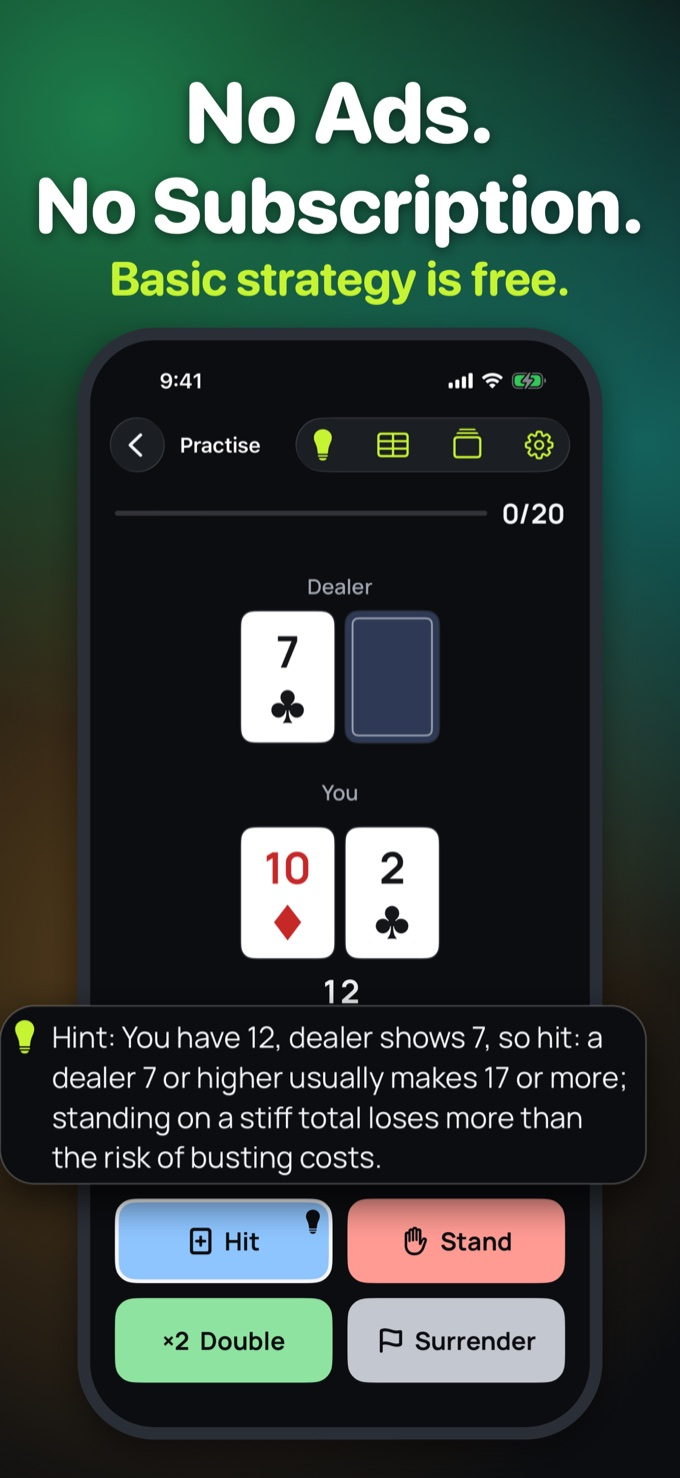
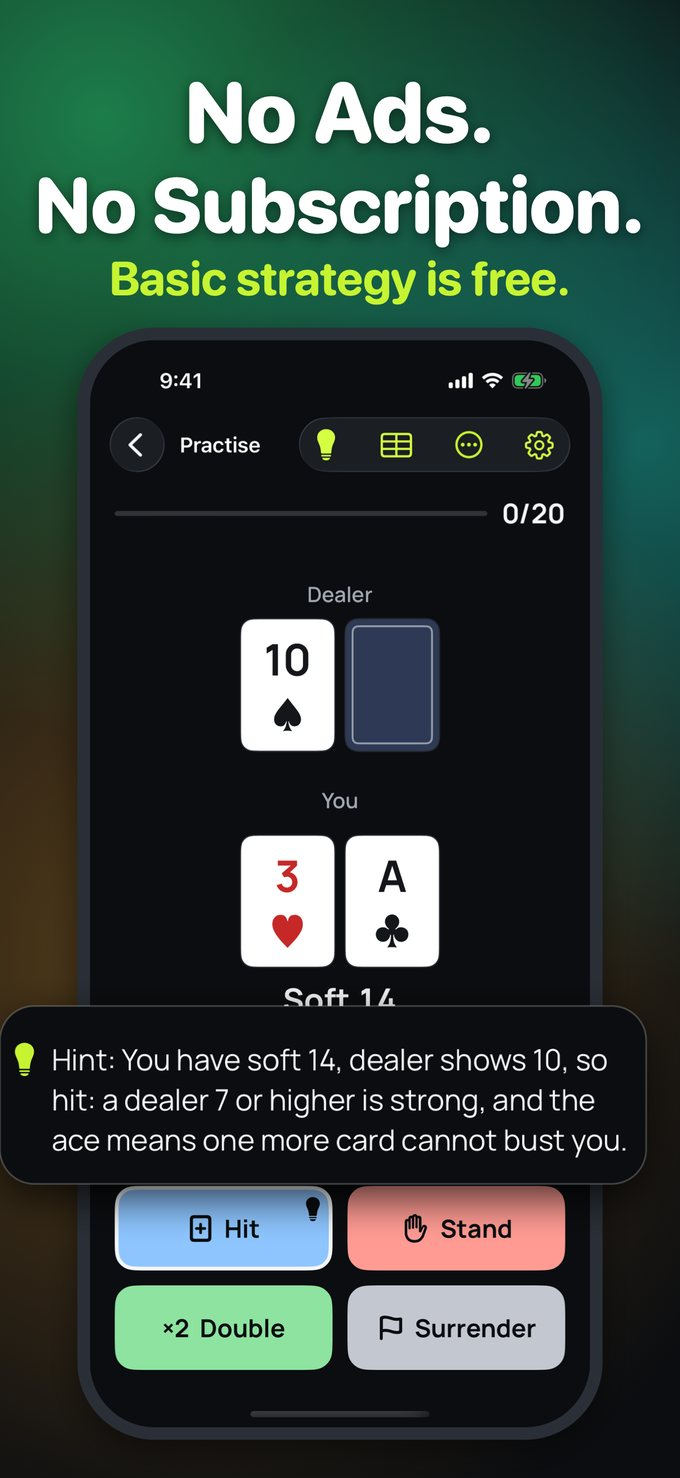
Add Euchre to the home page and an Euchre app page; refresh CardTrainer screenshots
Home page: Euchre card with three captioned screenshots, an About the app
button, intro and meta copy, jump and footer links. New euchre/index.html
modelled on the Blackjack & Video Poker Coach page, with og-euchre.jpg and
a sitemap entry. CardTrainer practice, counting and video poker images and
og-cardtrainer.jpg re-exported from the 2026-11-08 store screenshots.
AGENTS.md, README.md and docs/assets.md updated to match.

diff --git a/euchre/index.html b/euchre/index.html
@@ -1,0 +1,148 @@
+<!doctype html>
+<html lang="en">
+<head>
+  <meta charset="utf-8">
+  <meta name="viewport" content="width=device-width, initial-scale=1">
+  <meta name="theme-color" content="#10110f">
+  <meta name="description" content="Learn Euchre and play the classic four-player card game offline on iPhone and iPad, with a computer partner. No ads, no account. Coach hints with one purchase.">
+  <link rel="canonical" href="https://pangufu.ca/euchre/">
+  <link rel="icon" href="/assets/favicon.svg?v=2" type="image/svg+xml">
+  <title>Euchre: Learn and Play the Classic Card Game Offline</title>
+  <meta property="og:type" content="website">
+  <meta property="og:site_name" content="PANGUFU">
+  <meta property="og:title" content="Euchre: Learn and Play the Classic Card Game Offline">
+  <meta property="og:description" content="Learn Euchre and play the classic four-player card game offline on iPhone and iPad, with a computer partner. No ads, no account. Coach hints with one purchase.">
+  <meta property="og:url" content="https://pangufu.ca/euchre/">
+  <meta property="og:locale" content="en_US">
+  <meta property="og:image" content="https://pangufu.ca/assets/og-euchre.jpg">
+  <meta property="og:image:alt" content="Euchre app icon beside its table screen">
+  <meta name="twitter:card" content="summary_large_image">
+  <link rel="stylesheet" href="/styles.css">
+</head>
+<body class="content-page">
+  <header class="topbar" id="top">
+    <nav class="nav wrap" aria-label="Main navigation">
+      <a class="brand" href="/">PANGUFU</a>
+      <div class="nav-links">
+        <a href="/#apps">All apps</a>
+        <a class="nav-contact" href="#support">Support</a>
+      </div>
+    </nav>
+  </header>
+
+  <main>
+    <section class="page-intro wrap" aria-labelledby="page-title">
+      <p class="eyebrow">Card game · iPhone &amp; iPad</p>
+      <h1 id="page-title">Euchre</h1>
+      <p class="intro-text">Learn Euchre and play the classic four-player card game offline. You and a computer partner play against two computer opponents, at your own pace. Unlimited matches are free.</p>
+    </section>
+
+    <section class="apps-section" id="featured" aria-labelledby="apps-title">
+      <div class="wrap">
+        <div class="section-heading">
+          <div>
+            <p class="eyebrow">The app</p>
+            <h2 id="apps-title">Play a full match, offline.</h2>
+          </div>
+          <p class="section-note">No ads and no account.</p>
+        </div>
+        <article class="app-card">
+          <div class="feature-copy">
+            <div class="card-top">
+              <img class="app-icon" src="/assets/euchre-icon.png" width="64" height="64" alt="Euchre icon">
+              <div class="app-title">
+                <p class="app-kind">Card game · iPhone &amp; iPad</p>
+                <h3>Euchre</h3>
+              </div>
+            </div>
+            <p class="app-description">Play matches to 10 points with a computer partner, and learn the game as you go: dealing, trump, both bowers, following suit, bidding, going alone and scoring.</p>
+            <ul class="feature-points">
+              <li>Play with or without Stick the Dealer</li>
+              <li>Choose whether the dealer’s partner must go alone when ordering up</li>
+              <li>A rules guide, a six-step tutorial and 10 coaching scenarios</li>
+            </ul>
+            <p class="purchase-note"><strong>Free to play.</strong> Matches, the rules guide, the tutorial and the first 10 scenarios are free; one purchase adds the coach.</p>
+            <div class="card-bottom">
+              <span class="status"><span aria-hidden="true"></span>Coming soon to the App Store</span>
+              <a class="text-link" href="/euchre/privacy.html">Euchre privacy policy <span aria-hidden="true">↗</span></a>
+            </div>
+          </div>
+          <figure class="app-shot">
+            <img src="/assets/euchre-table.jpg" width="680" height="1477" alt="Captioned App Store image: Classic Euchre, Offline. No ads. No account. Above the table during a trick, with the cards that cannot follow suit marked" loading="lazy">
+          </figure>
+        </article>
+      </div>
+    </section>
+
+    <section class="training-section wrap" id="coach" aria-labelledby="coach-title">
+      <div class="section-heading">
+        <div>
+          <p class="eyebrow">Euchre Coach</p>
+          <h2 id="coach-title">See the better play.</h2>
+        </div>
+        <p class="section-note">Hints, hand reviews and every scenario, in one purchase.</p>
+      </div>
+      <div class="training-grid">
+        <article class="training-card">
+          <span class="mode-number">01</span>
+          <svg class="mode-icon" viewBox="0 0 48 48" aria-hidden="true">
+            <path d="M17 30c-3-2.6-5-6.2-5-10a12 12 0 0 1 24 0c0 3.8-2 7.4-5 10v5H17Z" />
+            <path d="M18 41h12" />
+            <path class="icon-accent" d="M24 14v8M20 18h8" />
+          </svg>
+          <p class="app-kind">Hints</p>
+          <h3>Ask at your turn</h3>
+          <p>Ask the coach for a hint when you want one. It uses only your hand and what you can see at the table, and explains the alternative too.</p>
+          <span class="mode-detail">Included with the Coach purchase</span>
+          <img class="training-shot" src="/assets/euchre-hint.jpg" width="680" height="1477" loading="lazy" alt="Captioned App Store image: Ask the Coach at Your Turn. One-time purchase. No subscription. Above a coach suggestion to lead the right bower, with an alternative">
+        </article>
+        <article class="training-card">
+          <span class="mode-number">02</span>
+          <svg class="mode-icon" viewBox="0 0 48 48" aria-hidden="true">
+            <rect x="10" y="7" width="28" height="34" rx="3" />
+            <path d="M16 17h16M16 25h16M16 33h9" />
+            <path class="icon-accent" d="m29 33 3 3 6-7" />
+          </svg>
+          <p class="app-kind">Hand review</p>
+          <h3>Learn from every hand</h3>
+          <p>Step through the decisions in a completed hand and see the coach’s advice. Practise the key decisions in the full scenario catalog.</p>
+          <span class="mode-detail">Included with the Coach purchase</span>
+          <img class="training-shot" src="/assets/euchre-review.jpg" width="680" height="1477" loading="lazy" alt="Captioned App Store image: Review Every Hand You Play. Included with the Coach purchase. Above a hand review with the coach's suggestion for a bidding decision">
+        </article>
+      </div>
+    </section>
+
+    <section class="principles" aria-labelledby="principles-title">
+      <div class="wrap principles-inner">
+        <div class="principles-heading">
+          <p class="eyebrow">Made for offline play</p>
+          <h2 id="principles-title">No account. No ads.<br>No data collected.</h2>
+        </div>
+        <div class="principles-copy">
+          <p>Play as much as you like for free. One purchase adds the coach, with no subscription.</p>
+          <p>Your settings, an active match, results and decision history stay on your device. A completed hand is shared only when you choose to export it.</p>
+        </div>
+      </div>
+    </section>
+
+    <section class="support wrap" id="support" aria-labelledby="support-title">
+      <div>
+        <p class="eyebrow">Support &amp; enquiries</p>
+        <h2 id="support-title">We’re here to help.</h2>
+        <p>For app support or general enquiries, send us a note.</p>
+      </div>
+      <a class="email" href="mailto:support@pangufu.ca">support@pangufu.ca <span aria-hidden="true">↗</span></a>
+    </section>
+  </main>
+
+  <footer>
+    <div class="foot wrap">
+      <strong>PANGUFU SOLUTION LTD.</strong>
+      <div class="footer-links">
+        <a href="/euchre/privacy.html">Euchre privacy policy</a>
+      </div>
+      <span>© 2026 PANGUFU</span>
+    </div>
+  </footer>
+</body>
+</html>

diff --git a/index.html b/index.html
@@ -4,14 +4,14 @@
   <meta charset="utf-8">
   <meta name="viewport" content="width=device-width, initial-scale=1">
   <meta name="theme-color" content="#10110f">
-  <meta name="description" content="PANGUFU builds focused iPhone and iPad apps for learning and practice: Canadian and US citizenship test coaches and a blackjack and video poker coach.">
+  <meta name="description" content="PANGUFU builds focused iPhone and iPad apps for learning and practice: Canadian and US citizenship test coaches, a blackjack and video poker coach, and Euchre with a built-in coach.">
   <link rel="canonical" href="https://pangufu.ca/">
   <link rel="icon" href="/assets/favicon.svg?v=2" type="image/svg+xml">
   <title>PANGUFU: iPhone &amp; iPad Apps for Learning and Practice</title>
   <meta property="og:type" content="website">
   <meta property="og:site_name" content="PANGUFU">
   <meta property="og:title" content="PANGUFU: iPhone &amp; iPad Apps for Learning and Practice">
-  <meta property="og:description" content="PANGUFU builds focused iPhone and iPad apps for learning and practice: Canadian and US citizenship test coaches and a blackjack and video poker coach.">
+  <meta property="og:description" content="PANGUFU builds focused iPhone and iPad apps for learning and practice: Canadian and US citizenship test coaches, a blackjack and video poker coach, and Euchre with a built-in coach.">
   <meta property="og:url" content="https://pangufu.ca/">
   <meta property="og:locale" content="en_CA">
   <meta property="og:image" content="https://pangufu.ca/assets/og-pangufu.jpg">
@@ -35,7 +35,7 @@
     <section class="intro wrap" aria-labelledby="page-title">
       <div class="copy">
         <h1 id="page-title">Small apps.<br>Thoughtfully made.</h1>
-        <p class="intro-text">PANGUFU builds focused iPhone and iPad apps for learning and practice. We care about clear design, useful feedback and the small details that make an app feel natural to use. Our apps today help people prepare for the Canadian and US citizenship tests and practise blackjack and video poker strategy, with more to come.</p>
+        <p class="intro-text">PANGUFU builds focused iPhone and iPad apps for learning and practice. We care about clear design, useful feedback and the small details that make an app feel natural to use. Our apps today help people prepare for the Canadian and US citizenship tests, practise blackjack and video poker strategy, and learn and play Euchre, with more to come.</p>
         <a class="button primary" href="#apps">Explore our apps <span aria-hidden="true">↓</span></a>
       </div>
       <div class="mark" aria-hidden="true">
@@ -57,6 +57,7 @@
           <a class="text-link" href="#citizenship">Canada Citizenship Test Coach <span aria-hidden="true">↓</span></a>
           <a class="text-link" href="#us-citizenship">US Citizen Test Coach <span aria-hidden="true">↓</span></a>
           <a class="text-link" href="#blackjack">Blackjack &amp; Video Poker Coach <span aria-hidden="true">↓</span></a>
+          <a class="text-link" href="#euchre">Euchre <span aria-hidden="true">↓</span></a>
         </nav>
         <div class="app-list">
           <article class="app-card app-feature theme-citizen" id="citizenship">
@@ -150,6 +151,36 @@
               <img src="/assets/cardtrainer-video-poker.jpg" width="680" height="1478" alt="Captioned App Store image: Perfect Video Poker Holds, one unlock for counting and video poker, above feedback comparing a hold with the best hold" loading="lazy">
             </div>
           </article>
+
+          <article class="app-card app-feature" id="euchre">
+            <div class="feature-copy">
+              <div class="card-top">
+                <img class="app-icon" src="/assets/euchre-icon.png" width="64" height="64" alt="Euchre icon">
+                <div class="app-title">
+                  <p class="app-kind">Card game · iPhone &amp; iPad</p>
+                  <h3>Euchre</h3>
+                </div>
+              </div>
+              <p class="app-description">Learn Euchre and play the classic four-player card game offline. You and a computer partner play against two computer opponents, at your own pace.</p>
+              <ul class="feature-points">
+                <li>Full matches to 10 points, with or without Stick the Dealer</li>
+                <li>A rules guide, a six-step tutorial and 10 coaching scenarios, all free</li>
+                <li>One-time Coach purchase: hints at your turn and advice on completed hands</li>
+              </ul>
+              <div class="card-actions">
+                <a class="button primary" href="/euchre/">About the app <span aria-hidden="true">→</span></a>
+              </div>
+              <div class="card-bottom">
+                <span class="status"><span aria-hidden="true"></span>Coming soon</span>
+                <a class="text-link" href="/euchre/privacy.html">Privacy policy <span aria-hidden="true">↗</span></a>
+              </div>
+            </div>
+            <div class="app-shots">
+              <img src="/assets/euchre-table.jpg" width="680" height="1477" alt="Captioned App Store image: Classic Euchre, Offline. No ads. No account. Above the table during a trick, with the cards that cannot follow suit marked" loading="lazy">
+              <img src="/assets/euchre-hint.jpg" width="680" height="1477" alt="Captioned App Store image: Ask the Coach at Your Turn. One-time purchase. No subscription. Above a coach suggestion to lead the right bower, with an alternative" loading="lazy">
+              <img src="/assets/euchre-scenario.jpg" width="680" height="1477" alt="Captioned App Store image: See Why a Play Works. 10 scenarios included. Above a practice scenario with the chosen play marked a good choice and explained" loading="lazy">
+            </div>
+          </article>
         </div>
       </div>
     </section>
@@ -184,6 +215,7 @@
         <a href="/citizen-coach-privacy/privacy.html">Canada Citizenship Test Coach privacy policy</a>
         <a href="/uscitizencoach-privacy/privacy.html">US Citizen Test Coach privacy policy</a>
         <a href="/blackjack-video-poker-coach/privacy.html">Blackjack &amp; Video Poker Coach privacy policy</a>
+        <a href="/euchre/privacy.html">Euchre privacy policy</a>
       </div>
       <span>© 2026 PANGUFU</span>
     </div>

diff --git a/docs/assets.md b/docs/assets.md
@@ -21,6 +21,11 @@ Refreshed again later on 2026-10-22 from the same exports after the screenshot s
 
 Refreshed on 2026-10-28 from the re-captioned exports. CitizenCoach now reads from `citizencoach/scratch/appstore-screenshots/captioned/{en,fr}/iphone/{01-home,03-quiz,04-listen}.png` (the quiz page was renumbered from 02). CardTrainer uses the same three files as before. Same 680px width; quality 84, except `citizencoach-study*.jpg` at 68, `citizencoach-readiness-fr.jpg` at 76 and `cardtrainer-video-poker.jpg` at 76 to stay under 200 KB. All nine were checked visually; no personal information.
 
+Refreshed on 2026-11-08 from the CardTrainer exports regenerated that day: `cardtrainer-practice.jpg`, `cardtrainer-counting.jpg` and `cardtrainer-video-poker.jpg` from the same three files, 680px wide, quality 84 (video poker now fits under 200 KB at 84), and `og-cardtrainer.jpg` remade from the new practice image. Captions are unchanged. Checked visually; sample hands only, no personal information.
+
+- `assets/euchre-icon.png` — `euchre/Euchre/Assets.xcassets/AppIcon.appiconset/AppIcon.png`, resized to 128px square.
+- `assets/euchre-table.jpg`, `assets/euchre-hint.jpg`, `assets/euchre-scenario.jpg`, `assets/euchre-review.jpg` — `euchre/scratch/appstore-screenshots/captioned/iphone-6.9/{01-table,02-hint,03-scenario,05-review}.png`, resized to 680px wide, JPEG quality 84, each under 200 KB. Checked visually on 2026-11-08; sample deals only, no personal information. The home-page card uses table, hint and scenario; the app page uses table, hint and review.
+
 - `assets/uscitizencoach-icon.png` — `uscitizencoach/USCitizenCoach/Assets.xcassets/AppIcon.appiconset/AppIcon.png`, resized to 128px square.
 - `assets/uscitizencoach-home.jpg`, `assets/uscitizencoach-interview.jpg`, `assets/uscitizencoach-reading-writing.jpg` — `uscitizencoach/scratch/appstore-screenshots/captioned/en/iphone/{01-home,02-interview,03-writing}.png`, resized to 680px wide, JPEG quality 84 (home at 80, under 200 KB). Checked visually; sample progress and sample answers only, no personal information.
 - `assets/uscitizencoach-home-es.jpg`, `assets/uscitizencoach-interview-es.jpg`, `assets/uscitizencoach-reading-writing-es.jpg` — `uscitizencoach/scratch/appstore-screenshots/captioned/es/iphone/{01-home,02-interview,03-writing}.png`, resized to 680px wide, JPEG quality 80 (home 181 KB, others under 150 KB). Checked visually; sample progress and sample answers only, no personal information.
@@ -30,4 +35,5 @@ Share images for Open Graph and Twitter cards, made on 2026-10-28 with a throwaw
 - `assets/og-citizencoach.jpg`, `assets/og-citizencoach-fr.jpg` — `citizencoach-icon.png` + `citizencoach-readiness.jpg` / `citizencoach-readiness-fr.jpg` (French page gets the French caption and store name).
 - `assets/og-uscitizencoach.jpg`, `assets/og-uscitizencoach-es.jpg` — `uscitizencoach-icon.png` + `uscitizencoach-home.jpg` / `uscitizencoach-home-es.jpg`.
 - `assets/og-cardtrainer.jpg` — `cardtrainer-icon.png` + `cardtrainer-practice.jpg`.
-- `assets/og-pangufu.jpg` — the three app icons and the PANGUFU name, no screenshot (the home page covers three apps).
+- `assets/og-euchre.jpg` — `euchre-icon.png` + `euchre-table.jpg`, made on 2026-11-08 the same way, with the store name shortened to "Euchre".
+- `assets/og-pangufu.jpg` — the three app icons and the PANGUFU name, no screenshot (made when the home page covered three apps; Euchre is not on it yet).

diff --git a/README.md b/README.md
@@ -45,7 +45,7 @@ not been reviewed by a French speaker. `tools/` is not published.
 
 ## Hosting
 
-The Pages workflow stages `index.html`, `404.html`, `styles.css`, `robots.txt`, `sitemap.xml`, `assets/`, the app page directories `canada-citizenship-test/`, `fr/`, `us-citizenship-test/`, `es/` and `blackjack-video-poker-coach/`, the four other privacy policy directories (`purrcade/`, `citizen-coach-privacy/`, `uscitizencoach-privacy/`, `euchre/`) and `steady-refresh/` (Chrome extension privacy policy and terms) into `_site/`, then deploys that directory with GitHub Pages Actions. Configure the repository's Pages source to **GitHub Actions**. The canonical domain is `https://pangufu.ca/`.
+The Pages workflow stages `index.html`, `404.html`, `styles.css`, `robots.txt`, `sitemap.xml`, `assets/`, the app page directories `canada-citizenship-test/`, `fr/`, `us-citizenship-test/`, `es/`, `blackjack-video-poker-coach/` and `euchre/`, the three other privacy policy directories (`purrcade/`, `citizen-coach-privacy/`, `uscitizencoach-privacy/`) and `steady-refresh/` (Chrome extension privacy policy and terms) into `_site/`, then deploys that directory with GitHub Pages Actions. Configure the repository's Pages source to **GitHub Actions**. The canonical domain is `https://pangufu.ca/`.
 
 Pages must be enabled in the repository before the workflow can run. For a new
 repository, enable it under Settings → Pages → Source → GitHub Actions, or run
@@ -67,7 +67,7 @@ The website can launch while the app is in development. Before replacing that la
 | Steady Refresh (autorefresh), privacy | https://pangufu.ca/steady-refresh/privacy.html | `../autorefresh/docs/privacy.html` |
 | Steady Refresh (autorefresh), terms | https://pangufu.ca/steady-refresh/terms.html | `../autorefresh/docs/terms.html` |
 
-The Blackjack & Video Poker Coach directory also holds its app page (`index.html`); only `privacy.html` is copied from the app repository. `purrcade/privacy.html` and `euchre/privacy.html` are published for App Store Connect, but the site has no Purrcade or Euchre page or card.
+The Blackjack & Video Poker Coach and Euchre directories also hold their app pages (`index.html`); only `privacy.html` is copied from each app repository. `purrcade/privacy.html` is published for App Store Connect; Purrcade has no page or card.
 
 Copy each source policy into its matching directory here when its content changes.
 Deploy these pages before releasing app builds or saving App Store Connect metadata

diff --git a/AGENTS.md b/AGENTS.md
@@ -16,7 +16,7 @@ deployed to GitHub Pages by `.github/workflows/pages.yml`. Plans:
 - Published files: `index.html`, `404.html`, `styles.css`, `robots.txt`, `sitemap.xml`, `assets/`,
   the app page directories `canada-citizenship-test/` and `fr/` (its French pages), `us-citizenship-test/` and `es/` (its Spanish pages), and the directories
   `purrcade/`, `blackjack-video-poker-coach/` (app page plus privacy policy),
-  `citizen-coach-privacy/`, `uscitizencoach-privacy/`, `euchre/` (privacy policy), `steady-refresh/` (extension privacy policy and terms).
+  `citizen-coach-privacy/`, `uscitizencoach-privacy/`, `euchre/` (app page plus privacy policy), `steady-refresh/` (extension privacy policy and terms).
   `mockups/`, `docs/` and the git-ignored `output/` are not published.
 - Generated, never hand-edited: the citizenship chapter and section pages, the `generated:questions`
   block of all four citizenship main pages, and the citizenship URLs in `sitemap.xml`. Edit
